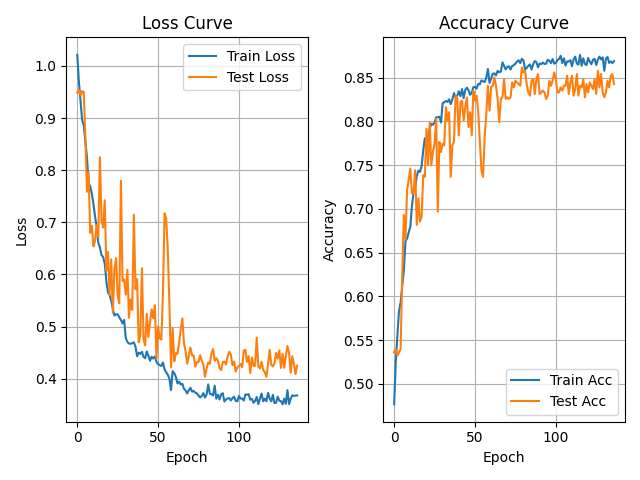
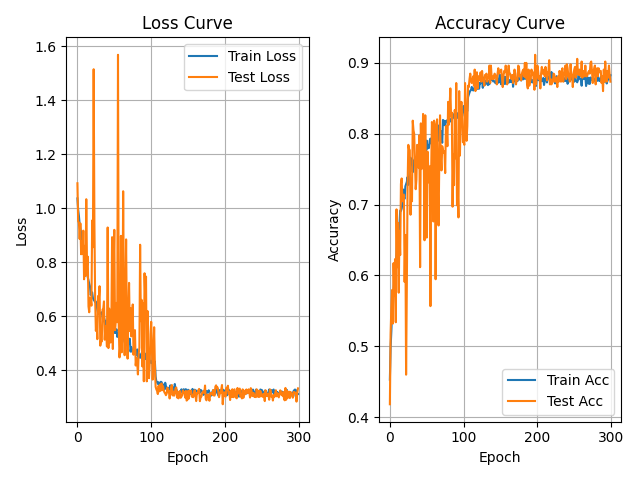
V2 final
目前 v2 的缺點是只會卡在 0.9 左右
接下來要嘗試把模型的 conv layer 加深
或者是改用 SGD + momentum

diff --git a/v2/main.py b/v2/main.py
@@ -35,8 +35,8 @@ train_dataset = datasets.ImageFolder(root='dataset2025/train', transform=train_t
 train_size = int(0.9 * len(train_dataset))
 test_size = len(train_dataset) - train_size
 train_data, val_data = random_split(train_dataset, [train_size, test_size])
-train_loader = DataLoader(train_data, batch_size=32, shuffle=True)
-test_loader = DataLoader(val_data, batch_size=32, shuffle=False)
+train_loader = DataLoader(train_data, batch_size=64, shuffle=True)
+test_loader = DataLoader(val_data, batch_size=64, shuffle=False)
 
 ### model structure
 # 因為資料量不大，就不要用太複雜的模型以免 overfitting
@@ -45,8 +45,8 @@ model = NoodleNet()
 
 ### training loop
 loss_func = nn.CrossEntropyLoss()
-optimizer = torch.optim.AdamW(model.parameters(), lr=1e-3, weight_decay=1e-4)
-scheduler = ReduceLROnPlateau(optimizer, mode='min', factor=0.1, patience=10)
+optimizer = torch.optim.AdamW(model.parameters(), lr=1e-3, weight_decay=1e-3)
+scheduler = ReduceLROnPlateau(optimizer, mode='min', factor=0.5, patience=6)
 
 device = torch.device("cuda" if torch.cuda.is_available() else "cpu")
 model = model.to(device)
@@ -121,29 +121,29 @@ for epoch in range(epochs):
     scheduler.step(test_loss)
 
 
-# 繪製 Loss 曲線
-plt.subplot(1, 2, 1) # 1 row, 2 cols, 1st plot
-plt.plot(history['train_loss'], label='Train Loss')
-plt.plot(history['test_loss'], label='Test Loss')
-plt.title('Loss Curve')
-plt.xlabel('Epoch')
-plt.ylabel('Loss')
-plt.legend()
-plt.grid(True)
+    # 繪製 Loss 曲線
+    plt.clf()
+    plt.subplot(1, 2, 1) # 1 row, 2 cols, 1st plot
+    plt.plot(history['train_loss'], label='Train Loss')
+    plt.plot(history['test_loss'], label='Test Loss')
+    plt.title('Loss Curve')
+    plt.xlabel('Epoch')
+    plt.ylabel('Loss')
+    plt.legend()
+    plt.grid(True)
 
-# 繪製 Accuracy 曲線
-plt.subplot(1, 2, 2) # 1 row, 2 cols, 2nd plot
-plt.plot(history['train_acc'], label='Train Acc')
-plt.plot(history['test_acc'], label='Test Acc')
-plt.title('Accuracy Curve')
-plt.xlabel('Epoch')
-plt.ylabel('Accuracy')
-plt.legend()
-plt.grid(True)
+    # 繪製 Accuracy 曲線
+    plt.subplot(1, 2, 2) # 1 row, 2 cols, 2nd plot
+    plt.plot(history['train_acc'], label='Train Acc')
+    plt.plot(history['test_acc'], label='Test Acc')
+    plt.title('Accuracy Curve')
+    plt.xlabel('Epoch')
+    plt.ylabel('Accuracy')
+    plt.legend()
+    plt.grid(True)
 
-plt.tight_layout() # 調整子圖佈局
-plt.savefig('training_curves.png') # 儲存圖表
-plt.show() # 顯示圖表
+    plt.tight_layout() # 調整子圖佈局
+    plt.savefig('training_curves.png') # 儲存圖表
 
 print(f"Best test accuracy achieved: {best_acc:.4f}")
 print("Training curves saved to training_curves.png")

diff --git a/v2/NoodleNet.py b/v2/NoodleNet.py
@@ -35,7 +35,6 @@ class NoodleNet(nn.Module):
             nn.ReLU(),
             nn.Dropout(0.5),
             nn.Linear(64, 3),
-            nn.Dropout(0.2),
         )
 
     def forward(self, x):
